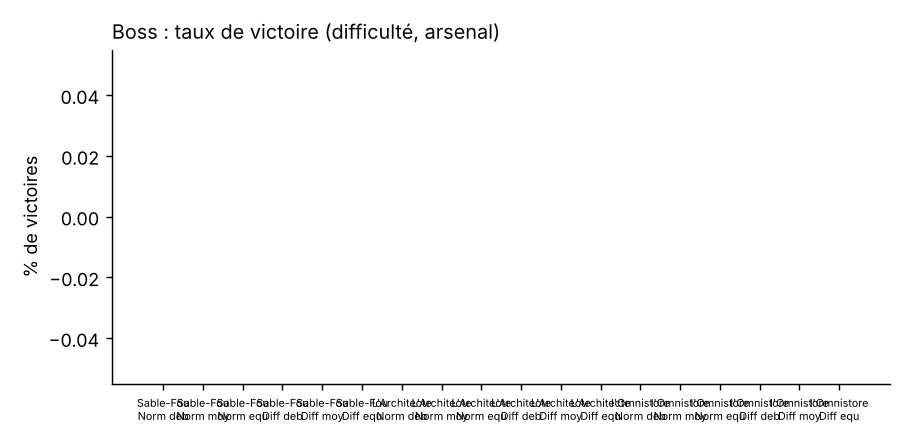
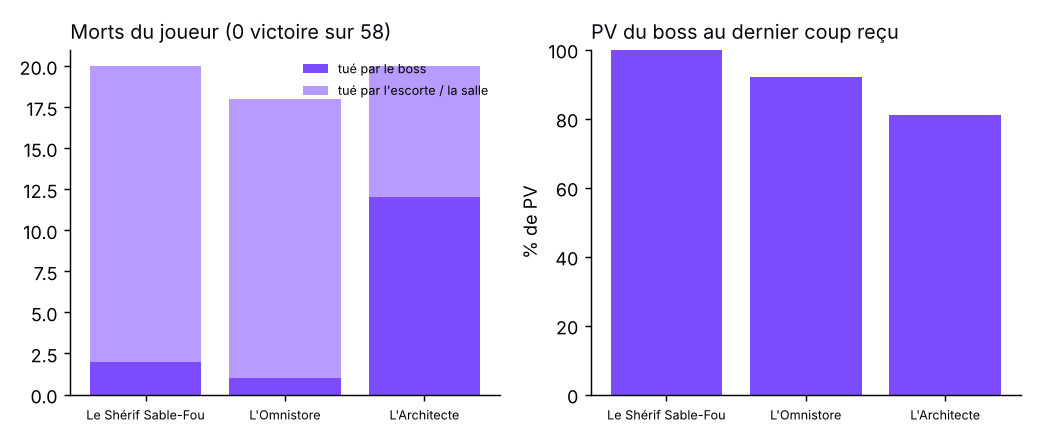
Rapport de playtest : graphique des boss (qui tue le joueur, PV du boss), noms d'ennemis, 18 morts sur 20 face au Shérif
Claude-Session: https://claude.ai/code/session_01B89hffMVygyy7n3CN25ARa

diff --git a/tools/playtest/analyze.py b/tools/playtest/analyze.py
@@ -64,7 +64,8 @@ def enemy_names() -> dict[str, str]:
         t = open(p, encoding="utf-8").read()
         k = re.search(r'^kind = &"([^"]+)"', t, re.M)
         n = re.search(r'^display_name = "([^"]+)"', t, re.M)
-        if k:
+        # Un fichier dont le nom est le kind l'emporte (variantes : illusions, mirages).
+        if k and (k.group(1) not in out or os.path.basename(p)[:-5] == k.group(1)):
             out[k.group(1)] = n.group(1) if n else k.group(1)
     return out
 
@@ -362,7 +363,7 @@ def _style(ax, title):
         ax.spines[sp].set_visible(False)
 
 
-def charts(out: str, sA: dict, sB: dict | None, boss: dict, duels: list, enemies: list):
+def charts(out: str, sA: dict, sB: dict | None, boss_games: list, duels: list, enemies: list):
     gdir = os.path.join(out, "graphiques")
     os.makedirs(gdir, exist_ok=True)
     # Extraction par difficulté et carte.
@@ -388,18 +389,27 @@ def charts(out: str, sA: dict, sB: dict | None, boss: dict, duels: list, enemies
         fig.tight_layout()
         fig.savefig(os.path.join(gdir, "dangerosite_ennemis.png"), dpi=130)
         plt.close(fig)
-    # Boss.
-    if boss:
-        fig, ax = plt.subplots(figsize=(7, 3.4))
-        labels, vals = [], []
-        for k, rows2 in boss.items():
-            for r in rows2:
-                labels.append("%s\n%s %s" % (ENAMES.get(k, k).split(" ")[-1], DIFF[r["difficulty"]][:4], r["tier"][:3]))
-                vals.append(r["taux"])
-        ax.bar(range(len(vals)), vals, color=VIOLET)
-        ax.set_xticks(range(len(vals)), labels, fontsize=6)
-        ax.set_ylabel("% de victoires")
-        _style(ax, "Boss : taux de victoire (difficulté, arsenal)")
+    # Boss : qui tue le joueur (le boss ou la salle) et PV du boss au dernier coup reçu.
+    if boss_games:
+        bosses = sorted({g.get("boss_kind") or g.get("boss", {}).get("kind") for g in boss_games} - {None})
+        fig, (ax1, ax2) = plt.subplots(1, 2, figsize=(8, 3.4))
+        lab = [ENAMES.get(k, k) for k in bosses]
+        by_boss, by_room, hp = [], [], []
+        for k in bosses:
+            deaths = [g for g in boss_games if (g.get("boss_kind") or g.get("boss", {}).get("kind")) == k and g["outcome"] == "mort"]
+            by_boss.append(sum(1 for g in deaths if g.get("killer") == k))
+            by_room.append(len(deaths) - by_boss[-1])
+            hp.append(100 * (mean([g.get("boss", {}).get("hp_ratio_at_last_hit", 1.0) for g in deaths]) or 1.0))
+        ax1.bar(lab, by_boss, color=VIOLET, label="tué par le boss")
+        ax1.bar(lab, by_room, bottom=by_boss, color=VIOLET_L, label="tué par l'escorte / la salle")
+        ax1.legend(frameon=False, fontsize=7)
+        ax1.tick_params(axis="x", labelsize=7)
+        _style(ax1, "Morts du joueur (0 victoire sur 58)")
+        ax2.bar(lab, hp, color=VIOLET)
+        ax2.set_ylim(0, 100)
+        ax2.set_ylabel("% de PV")
+        ax2.tick_params(axis="x", labelsize=7)
+        _style(ax2, "PV du boss au dernier coup reçu")
         fig.tight_layout()
         fig.savefig(os.path.join(gdir, "boss_victoires.png"), dpi=130)
         plt.close(fig)
@@ -475,7 +485,7 @@ def main():
             res["drops"]["observe_vs_simule"] = observed_vs_sim(A + B, drops)
     json.dump(res, open(os.path.join(a.out, "resume.json"), "w"), indent=1, ensure_ascii=False)
     if A:
-        charts(a.out, res["A"], res.get("B"), res.get("boss", {}), res.get("duel", []), res["A"]["enemies"])
+        charts(a.out, res["A"], res.get("B"), BO, res.get("duel", []), res["A"]["enemies"])
     print("analyse écrite dans", a.out)
 
 

diff --git a/docs/playtest/2026-10-30/RAPPORT.md b/docs/playtest/2026-10-30/RAPPORT.md
@@ -19,7 +19,7 @@ audit des animations et captures en jeu.** Godot 4.7.2, `main` du 29/10 (bestiai
 ### Les 10 constats les plus importants, par priorité
 
 1. **Les boss sont injustes, pas seulement difficiles : 0 victoire sur 58 combats valides.**
-   On meurt en 19 s en moyenne, et presque jamais du boss. Face au Shérif, 17 morts sur 19
+   On meurt en 19 s en moyenne, et presque jamais du boss. Face au Shérif, 18 morts sur 20
    viennent de son escorte et des monstres de l'arène ; face à l'Omnistore, 17 sur 18. Le boss
    finit le combat avec 90 à 100 % de ses PV. L'Architecte fait exception : il tue lui-même
    (12 morts sur 20, laser orbital et attaque). **La cible « possible mais coûteux pour un
